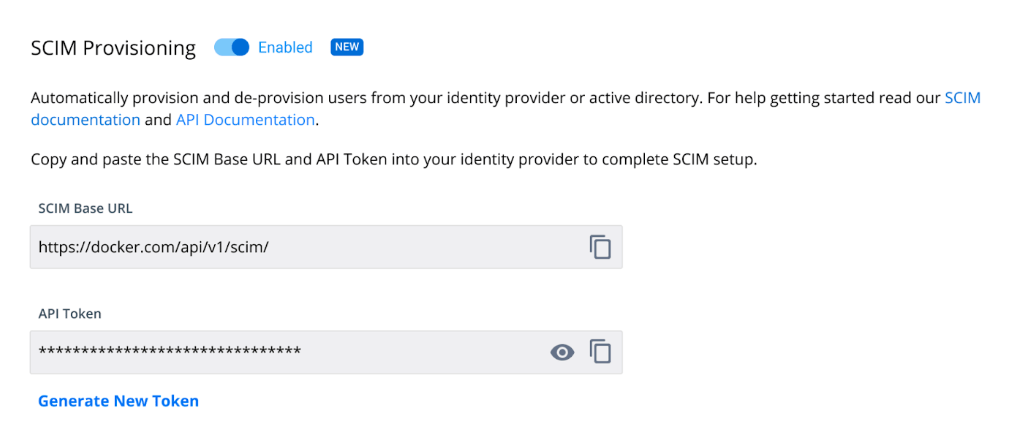
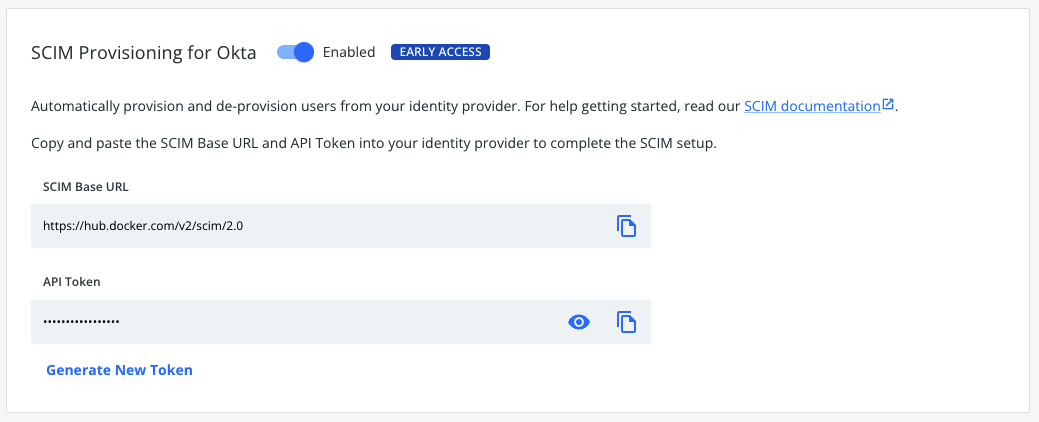
updated SCIM docs

diff --git a/docker-hub/scim.md b/docker-hub/scim.md
@@ -1,54 +1,58 @@
 ---
-description: System for Cross-domain Identity Maagement
+description: System for Cross-domain Identity Management
 keywords: SCIM, SSO
 title: System for Cross-domain Identity Management
 ---
 
-> **Important**
->
-> SCIM for Okta is now available for early access. SCIM support for Azure AD is
-> coming soon.
-{: .important}
-
 This section is for administrators who want to enable System for Cross-domain Identity Management (SCIM) 2.0 for their business. SCIM is a provisioning system that lets you manage users within your identity provider (IdP). You can enable SCIM on organizations that are part of the Docker Business subscription. To upgrade your existing account to a Docker Business subscription, see [Upgrade your subscription](../subscription/upgrade.md){:target="blank" rel="noopener" class=""}.
 
-SCIM provides automated user provisioning and de-provisioning for your Docker organization through your IdP. Once SCIM is enabled in your IdP, any user assigned to the Docker application in the IdP is automatically provisioned in Docker Hub and added to the organization. Also, if a user gets unassigned from the Docker application in the IdP, the user is removed from the organization in Docker Hub. SCIM also synchronizes changes made to users’ attributes in the IdP, for instance, the user’s first and last names. Group management is currently not supported.
+SCIM provides automated user provisioning and de-provisioning for your Docker organization through your Identity Provider (IdP).  Once SCIM is enabled in the IdP, any user assigned to the Docker application in the IdP, is automatically provisioned in Docker Hub and added to the organization. Also, if a user gets unassigned from the Docker application in the IdP, the user is removed from the organization in Docker Hub. SCIM also synchronizes changes made to users’ attributes in the IdP, for instance the user’s first name and last name.
 
-We currently support the following provisioning features: creating new users, pushing user profile updates, removing users, deactivating users and reactivating users.
+We currently support the following provisioning features: creating new users, push user profile updates, remove users, deactivate users and reactivate users.  Group management is currently not supported.
+
+The table below lists the supported attributes.
+
+| Attribute    | Description
+|:---------------------------------------------------------------|:-------------------------------------------------------------------------------------------|
+| username             | Unique identifier of the user (email)                                   |
+| givenName                            | User’s first name |
+| familyName |User’s surname                                              |
 
 ## Configure
 
-SAML-based SSO must be properly set up and functional for your organization before you start configuring automated provisioning. In addition, you must verify your company domain and have the appropriate connectors in your IdP. Your user email domain must be the same company domain you use for Single Sign-on (SSO). Enforcing SSO is not required to enable SCIM. However, you must [configure SAML SSO](../single-sign-on/index.md){: target="_blank" rel="noopener" class="_"} before you enable SCIM.
+SAML-based SSO must be properly set up and be functional for your organization before you start configuring automated provisioning. In addition, you must verify your company domain and have the appropriate connectors in your IdP. Your user email domain must be the same company domain you use for Single Sign-on (SSO). Enforcing SSO is not required to enable SCIM. However, you must [configure SAML SSO](../single-sign-on/index.md){: target="_blank" rel="noopener" class="_"} before you enable SCIM.
 
-### Okta IdP
-
-Before making SCIM configuration changes in your IdP, navigate to [Docker Hub](https://hub.docker.com){: target="_blank" rel="noopener" class="_"} and select **Organizations** > **Settings** > **Security**. SCIM is locked until you complete the SSO configuration and verify your company domain. Enable SCIM and access your **Base URL** and **API Token** ( the same as Bearer Token in Okta).
+Before you make SCIM configuration changes in your IdP, navigate to [Docker Hub](https://hub.docker.com){: target="_blank" rel="noopener" class="_"} and select **Organizations** > **Settings** > **Security**. SCIM is locked until you complete the SSO configuration and verify your company domain. Enable SCIM and access your Base URL and API Token. You can also generate a new API token.
 
 ![scim-provisioning](images/scim-provisioning.png){:width="700px"}
 
-1. In Okta, navigate to **Applications** > **Create App Integration**, **SAML 2.0**, and click **Next**.
-2. In the **General** tab, select **Edit App Settings** to enable SCIM provisioning and click **Save**.
-3. In the Provisioning tab, edit the SCIM Connection and complete the following:
+### Okta
+
+1. In Okta, navigate to **Applications** > **Create App Integration** > **SAML 2.0**, and click **Next**.
+2. In the **General** tab, on your new application page, select **Edit App Settings** to enable SCIM provisioning and click **Save**.
+3. In the **Provisioning** tab, edit the SCIM Connection and complete the following:
 
     * **SCIM connector base URL**: SCIM Base URL from Docker Hub
     * **Unique identifier field for users**: enter **email**
     * **Supported Provisioning actions**: select **Push New Users**, **Push Profile Updates**
     * **Authorization/Bearer**: SCIM API Token from Docker Hub
 
-4. Click **Test Connection Configuration** to complete the configuration and **Save**.
-5. Navigate to **Provisioning** > **To App** > **Edit** and enable **Create Users**, **Update User Attributes** and **Deactivates Users**, and click **Save**.
-
     ![scim-app-provisioning](images/scim-app-provisioning.png){:width="700px"}
+
+4. Click **Test Connection Configuration** to complete the configuration and **Save**.
+5. Once configured, you must enable synchronization. Navigate to **Provisioning** > **To App** > **Edit**, and enable **Create Users**, **Update User Attributes** and **Deactivates Users**, and click **Save**.
+
+    ![provisioning-to-app](images/provisioning-to-app.png){:width="700px"}
 
 6. Remove all fields that are not supported from your **Docker Hub Attributes Mappings**.
 
-![scim-attributes](images/scim-attributes.png){:width="700px"}
+    ![scim-attributes](images/scim-attributes.png){:width="700px"}
 
 The synchronization of user data is now automated, and the members in your Docker organization will now be automatically provisioned, updated, and de-provisioned based on the access control managed through your identity provider, Okta.
 
-### Generate a full-sync
+#### Generate a full-sync
 
-You must run full-sync after enabling SCIM, if you already have users assigned to the Docker Hub app when you enable SCIM. The full sync provisions the users that are assigned in the IdP Directory to  Docker Hub.
+You must run a full-sync after enabling SCIM, if you already have users assigned to the Docker Hub app. This provisions the users that are assigned in the IdP Directory to Docker Hub.
 
 1. Navigate to **Applications** > **Applications** and select the Docker Hub app.
 2. In the **Assignments** tab, click **Provision User** if you have pending users.
@@ -56,12 +60,113 @@ You must run full-sync after enabling SCIM, if you already have users assigned t
 
     > **Note**
     >
-    > Any user that was not previously provisioned is now provisioned in Docker Hub.
+    > This will generate a full-sync and any user that was not previously provisioned is now provisioned in Docker Hub.
 
-![scim-okta-button](images/scim-okta-button.png){:width="700px"}
+![provision-user](images/provision-user.png){:width="700px"}
+
+### Azure AD
+
+1. Navigate to Azure AD and select **AzureAD admin**.
+2. In the **Default Directory**, select **Add** > **Enterprise Application** > **Create your own application**.
+
+    > **Note**
+    >
+    > When you create an Enterprise Application you can configure SCIM with
+    > Security Assertion Markup Language (SAML).
+
+3. Type **Docker** for application name, select **non-gallery**, and click **Create**.
+4. In your Docker application, navigate to **Provisioning**, and click **Get Started**.
+5. Select **Automatic** for the provisioning mode and enter your SCIM credentials.
+
+    > **Note**
+    >
+    > You can access and copy your SCIM URL (Tenant URL) and API Token (Secret
+    > Token) in Docker Hub.
+
+6. Click **Test Connection** to enable and authorize the provisioning and click **Save**.
+7. In **Mappings**, click **Provision Azure Active Directory Groups** to disable Groups and click **Save**.
+8. Click **Provision Azure Active Directory Users**, in **Attribute Mappings**, and keep the **userName**, **Active**, **givenName**, **familyName**. Delete the other attributes listed.
+
+    ![attribute-mapping](images/attribute-mapping.png){:width="700px"}
+
+9. Click **Start Provisioning** to begin the full synchronization.
+
+     > **Note**
+     >
+     > It can take up to 30 minutes to begin provisioning. You can also
+     > provision on demand provisioning with one user that is already assigned
+     > to the application.
+
+### Onelogin
+
+1. In Onelogin, navigate to **Applications** > **Applications** > **Add app**.
+2. In the search field, enter **SCIM Provisioner with SAML (SCIM v2 Core)** and select the item in the results.
+3. Enter **Docker Hub** as the display name and click **Save**.
+4. Navigate to the left navigation, and select **Configuration**.
+5. In a separate tab, navigate to **Docker Hub** > **Settings** > **Security** > **SSO** > **SAML**.
+6. Copy the following fields from Docker Hub, in to OneLogin:
+
+    * Entity ID: SAML Audience URL
+    * ACS URL:  SAML Consumer URL
+    * SCIM Base URL: SCIM Base URL
+    * Custom Headers:
+
+```console
+     Content-Type: application/scim+json
+     User-Agent: OneLogin SCIM
+```
+   * SCIM Bearer Token: SCIM Bearer Token
+   * SCIM JSON Template:
+
+ ```console
+    {
+    "schemas": [
+        "urn:ietf:params:scim:schemas:core:2.0:User"
+    ],
+    "userName": "{$parameters.scimusername}",
+    "name": {
+        "givenName": "{$user.firstname}",
+        "familyName": "{$user.lastname}"
+    },
+    "emails": [
+        {
+            "value": "{$user.email}",
+            "primary": true
+        }
+    ]
+}
+```
+
+   ![application-details](images/application-details.png){:width="700px"}
+
+7. Click **API Connection** > **Enable** and **Save**.
+8. Navigate to the **Parameters** tab, click **scimusername**, select **Email** and **Save**.
+
+    ![parameters-tab](images/parameters-tab.png){:width="700px"}
+
+10. Navigate to the SSO tab, and copy the **SAML 2.0 Endpoint (HTTP)** url and paste it in to [**Docker Hub**](https://hub.docker.com){: target="_blank" rel="noopener" class="_"} > **Settings** > **Security** > **SSO** > **SAML Sign-in URL**.
+11. In the **X.509 Certificate** field, click **View Details**.
+12. Copy the **PEM certificate**, and paste it in to [**Docker Hub**](https://hub.docker.com){: target="_blank" rel="noopener" class="_"} > **Settings** > **Security** > **SSO** > **Key x509 Certificate** and click **Save**.
+12. In Onelogin, navigate to the **Access** tab, enable the app for `ol_role` that was already created and click **Save**.
+14. Navigate to the **Provisioning** tab and select **Enable provisioning**, and deselect the other options.
+15. In the drop-down, select **Suspend** and click **Save**.
+
+
+#### Generate a full-sync
+
+1. In Onelogin, navigate to **Applications** and select the Docker Hub application.
+2. In **Users**, click **Apply to All** and **Reapply Mappings**.
+3. Click **Confirm** to provision your users in Docker Hub.
+
+> **Note**
+>
+> This creates a full-sync and any user that was not previously
+> provisioned is now provisioned in Docker Hub.
+
+![scim-okta-button](images/scim-provisioner-saml.png){:width="700px"}
 
 ## Disabling SCIM
 
-If SCIM is disabled, any user provisioned through SCIM will remain in the organization. Future changes for your users will not sync from your IdP. Users provisioning is through just-in-time provisioning from SSO.
+If SCIM is disabled, any user provisioned through SCIM will remain in the organization. Future changes for your users will not sync from your IdP. User de-provisioning is only possible when manually removing the user from the organization.
 
 ![scim-disable](images/scim-disable.png){:width="700px"}
